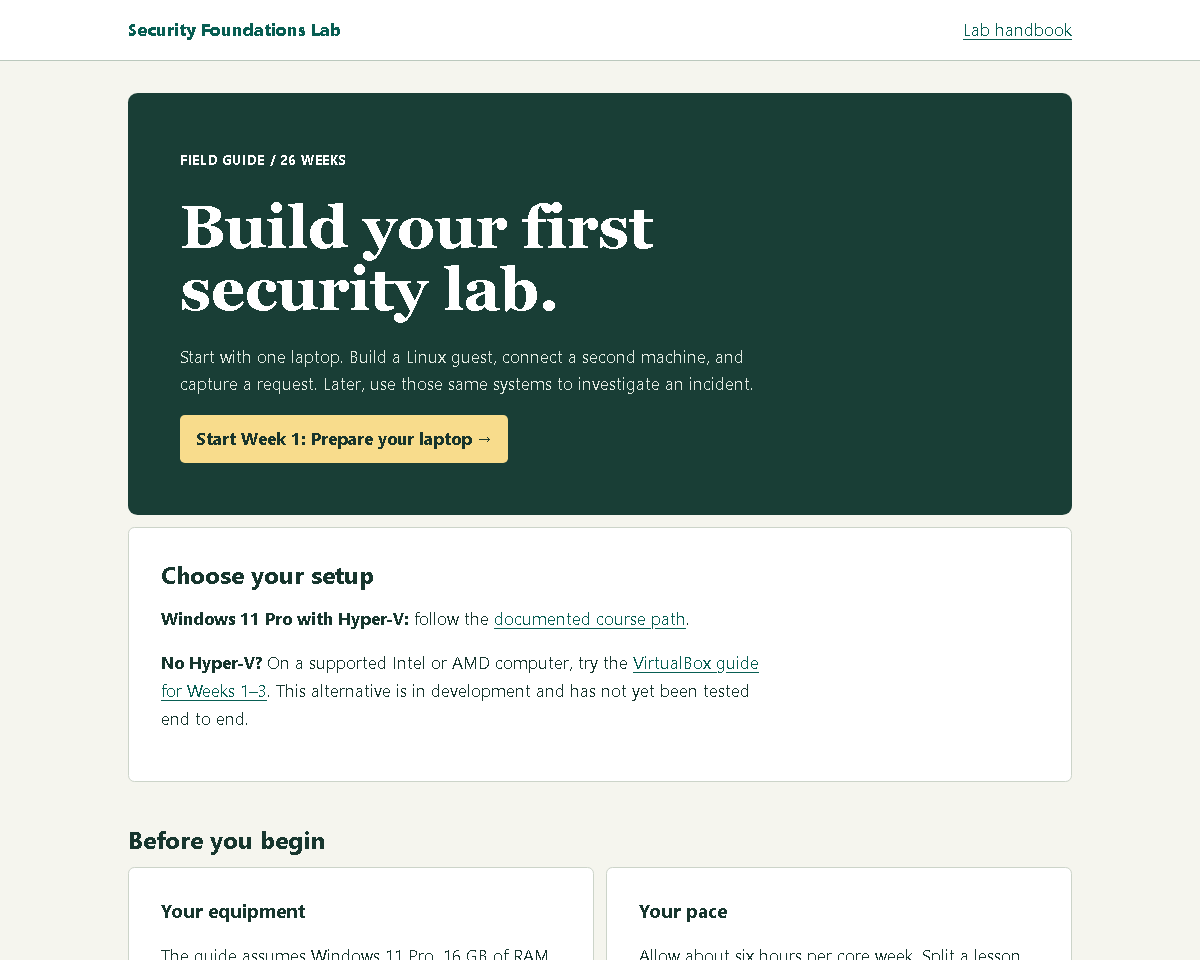
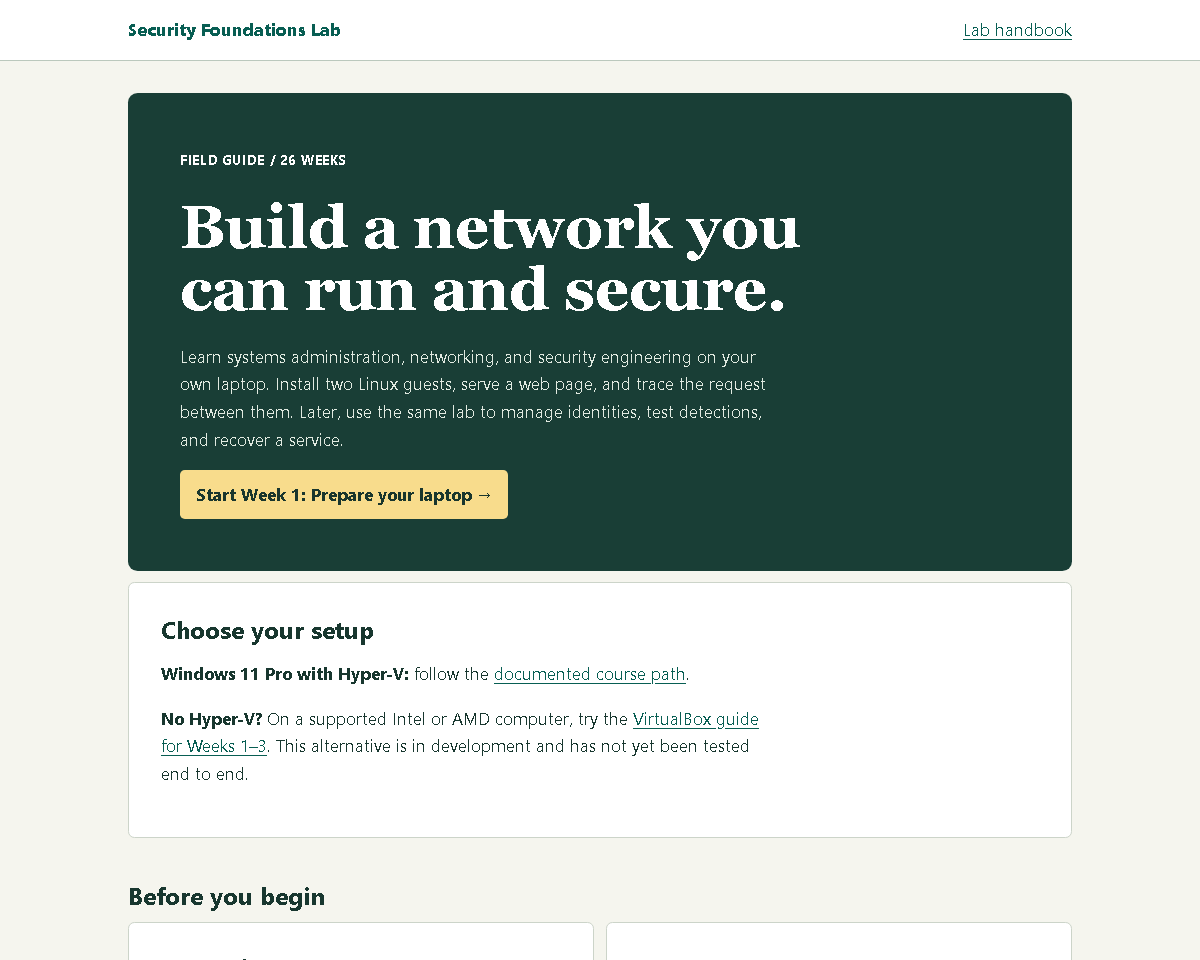
Introduce the course through its systems, networking and engineering outcomes

diff --git a/course/index.html b/course/index.html
@@ -1,6 +1,6 @@
 <!doctype html><html lang="en"><head><meta charset="utf-8"><meta name="viewport" content="width=device-width,initial-scale=1"><title>Course overview | Security Foundations Lab</title><style>
 *{box-sizing:border-box}html{scroll-padding-top:1rem}body{margin:0;background:#f5f5ee;color:#18372f;font:1.05rem/1.65 system-ui,sans-serif}a{color:#085e53;text-underline-offset:.2em}a:focus-visible,summary:focus-visible{outline:3px solid #bf571e;outline-offset:4px}.skip{position:absolute;left:1rem;top:-6rem;background:white;padding:.6rem}.skip:focus{top:.5rem}header{border-bottom:1px solid #bbc8bd;background:#fff}nav,main,footer{max-width:65rem;margin:auto;padding:1rem clamp(1rem,4vw,3rem)}nav{display:flex;align-items:center;justify-content:space-between;gap:1rem;flex-wrap:wrap}nav a:first-child{font-weight:800;text-decoration:none}main{padding-block:2rem}h1,h2,h3{line-height:1.18;text-wrap:balance}h1{font: bold clamp(2.25rem,5vw,4rem)/1.02 Georgia,serif;max-width:19ch;margin:.4em 0}h2{font-size:1.5rem;margin:1.8em 0 .55em}h3{font-size:1.2rem}p{max-width:68ch}.hero{background:#193e36;color:#fff;padding:clamp(1.25rem,5vw,3.25rem);border-radius:.6rem}.hero p{color:#e1eae1}.label,.terminal-label{font-size:.8rem;font-weight:750;letter-spacing:.05em}.btn{display:inline-block;background:#f8dc8c;color:#19362d;padding:.65rem 1rem;border-radius:.3rem;text-decoration:none;font-weight:750}.btn:hover{text-decoration:underline}.hint{background:#e6ede0;border-left:4px solid #577655;padding:.85rem 1.1rem}.panel,details{background:#fff;border:1px solid #ccd4c9;border-radius:.4rem;margin:.7rem 0}.panel{padding:clamp(1rem,3vw,2rem)}.panel h2,.panel h3{margin-top:0}summary{cursor:pointer;padding:.9rem 1.1rem;font-weight:700}details ul{margin:0;padding:0 2.8rem 1rem}li{margin:.4em 0}.grid{display:grid;grid-template-columns:repeat(auto-fit,minmax(min(100%,16rem),1fr));gap:.8rem}.grid .panel{margin:0}.terminal-label{background:#27473f;color:#fff;padding:.45rem .85rem}pre{margin:0;background:#112d26;color:#fff;padding:1rem;overflow-x:auto;line-height:1.55;font-size:.9rem}.command{margin:1em 0;min-width:0}.sectionlink{font-weight:650}footer{font-size:.9rem;border-top:1px solid #ccd4c9} @media print{nav,.skip,.btn,footer{display:none}.hero,.panel,.hint{background:white;color:black}.hero p{color:black}pre{white-space:pre-wrap;color:black;background:white}}
-.step{background:white;border:1px solid #ccd4c9;border-radius:.4rem;margin:1rem 0;padding:clamp(1rem,3vw,2rem)}.step h3{margin-top:0}.tablewrap{overflow:auto}table{border-collapse:collapse;width:100%}th,td{text-align:left;vertical-align:top;border-bottom:1px solid #bdcabc;padding:.55rem}.note{display:block;background:#e6ede0;padding:1rem;margin:1rem 0}.next,.meta{display:flex;gap:1rem;flex-wrap:wrap}.next{justify-content:space-between}.tag,.eyebrow{font-size:.85rem;font-weight:650}.cards{display:grid;grid-template-columns:repeat(auto-fit,minmax(min(100%,18rem),1fr));gap:.7rem}.card{display:grid;padding:1rem;background:white;border:1px solid #ccd4c9}.card span{font-size:.9rem}svg,img{max-width:100%;height:auto}.actions{padding-left:1.8rem;max-width:70ch}.actions li{padding:.15rem 0 .15rem .25rem}.actions li::marker{font-weight:750;color:#24594a}.settings{max-width:68ch}.settings div{display:grid;grid-template-columns:minmax(9rem,1fr) 2fr;gap:.6rem;padding:.55rem;border-bottom:1px solid #ccd4c9}.settings dt{font-weight:650}.settings dd{margin:0}.result{border-left:3px solid #537761;padding:.5rem .85rem;background:#edf2e9}@media(max-width:520px){.settings div{grid-template-columns:1fr;gap:.1rem}}</style></head><body><a class="skip" href="#main">Skip to content</a><header><nav aria-label="Course"><a href="index.html">Security Foundations Lab</a><a href="lab-handbook.html">Lab handbook</a></nav></header><main id="main"><section class="hero"><span class="label">FIELD GUIDE / 26 WEEKS</span><h1>Build your first security lab.</h1><p>Start with one laptop. Build a Linux guest, connect a second machine, and capture a request. Later, use those same systems to investigate an incident.</p><a class="btn" href="week-01.html">Start Week 1: Prepare your laptop →</a></section>
+.step{background:white;border:1px solid #ccd4c9;border-radius:.4rem;margin:1rem 0;padding:clamp(1rem,3vw,2rem)}.step h3{margin-top:0}.tablewrap{overflow:auto}table{border-collapse:collapse;width:100%}th,td{text-align:left;vertical-align:top;border-bottom:1px solid #bdcabc;padding:.55rem}.note{display:block;background:#e6ede0;padding:1rem;margin:1rem 0}.next,.meta{display:flex;gap:1rem;flex-wrap:wrap}.next{justify-content:space-between}.tag,.eyebrow{font-size:.85rem;font-weight:650}.cards{display:grid;grid-template-columns:repeat(auto-fit,minmax(min(100%,18rem),1fr));gap:.7rem}.card{display:grid;padding:1rem;background:white;border:1px solid #ccd4c9}.card span{font-size:.9rem}svg,img{max-width:100%;height:auto}.actions{padding-left:1.8rem;max-width:70ch}.actions li{padding:.15rem 0 .15rem .25rem}.actions li::marker{font-weight:750;color:#24594a}.settings{max-width:68ch}.settings div{display:grid;grid-template-columns:minmax(9rem,1fr) 2fr;gap:.6rem;padding:.55rem;border-bottom:1px solid #ccd4c9}.settings dt{font-weight:650}.settings dd{margin:0}.result{border-left:3px solid #537761;padding:.5rem .85rem;background:#edf2e9}@media(max-width:520px){.settings div{grid-template-columns:1fr;gap:.1rem}}</style></head><body><a class="skip" href="#main">Skip to content</a><header><nav aria-label="Course"><a href="index.html">Security Foundations Lab</a><a href="lab-handbook.html">Lab handbook</a></nav></header><main id="main"><section class="hero"><span class="label">FIELD GUIDE / 26 WEEKS</span><h1>Build a network you can run and secure.</h1><p>Learn systems administration, networking, and security engineering on your own laptop. Install two Linux guests, serve a web page, and trace the request between them. Later, use the same lab to manage identities, test detections, and recover a service.</p><a class="btn" href="week-01.html">Start Week 1: Prepare your laptop →</a></section>
     <section class="panel"><h2>Choose your setup</h2><p><strong>Windows 11 Pro with Hyper-V:</strong> follow the <a href="week-01.html">documented course path</a>.</p><p><strong>No Hyper-V?</strong> On a supported Intel or AMD computer, try the <a href="virtualbox.html">VirtualBox guide for Weeks 1–3</a>. This alternative is in development and has not yet been tested end to end.</p></section><h2>Before you begin</h2><div class="grid"><section class="panel"><h3>Your equipment</h3><p>The guide assumes Windows 11 Pro, 16 GB of RAM, and administrator access. Week 1 checks your hardware before you install a VM.</p></section><section class="panel"><h3>Your pace</h3><p>Allow about six hours per core week. Split a lesson across sessions; use the checks at the end to decide when to move on.</p></section></div>
     <p class="hint"><strong>Using the download?</strong> Keep the extracted folder together. Reading works offline. You’ll need internet for installers, updates, and cloud exercises.</p>
     <p class="hint"><strong>Learning solo?</strong> Use the <a href="lab-handbook.html#solo">weekly self-review checklist</a>. A mentor is optional.</p><h2 id="lessons">Find a lesson</h2><p>Work through the weeks in order. Returning learners can open a section below to jump back in.</p><details><summary>Weeks 1–6 · Linux and network foundations</summary><ul><li><a href="week-01.html">Week 1: Prepare the laptop and your learning system</a></li><li><a href="week-02.html">Week 2: Build your first Linux VM</a></li><li><a href="week-03.html">Week 3: Build an isolated network and trace packets</a></li><li><a href="week-04.html">Week 4: Linux files, users, and least privilege</a></li><li><a href="week-05.html">Week 5: Services, logs, and recoverable configuration</a></li><li><a href="week-06.html">Week 6: SSH keys, firewalls, and a foundation exam</a></li></ul></details><details><summary>Weeks 7–10 · Windows, identity and web services</summary><ul><li><a href="week-07.html">Week 7: Windows administration and event evidence</a></li><li><a href="week-08.html">Week 8: Build a domain and understand DNS</a></li><li><a href="week-09.html">Week 9: Identity lifecycle and Group Policy</a></li><li><a href="week-10.html">Week 10: HTTP, TLS, and application boundaries</a></li></ul></details><details><summary>Weeks 11–16 · Monitoring and detection</summary><ul><li><a href="week-11.html">Week 11: Deploy your security monitoring stack</a></li><li><a href="week-12.html">Week 12: Collect Linux events and prove file monitoring</a></li><li><a href="week-13.html">Week 13: Capture Windows process telemetry</a></li><li><a href="week-14.html">Week 14: Write and test your first detection rules</a></li><li><a href="week-15.html">Week 15: Build a network sensor with Suricata</a></li><li><a href="week-16.html">Week 16: Integrate network alerts and investigate a case</a></li></ul></details><details><summary>Weeks 17–22 · Response, recovery and local capstone</summary><ul><li><a href="week-17.html">Week 17: Assess exposure and prioritize remediation</a></li><li><a href="week-18.html">Week 18: Contain, preserve, and recover an incident</a></li><li><a href="week-19.html">Week 19: Back up data and prove a restore</a></li><li><a href="week-20.html">Week 20: Containers and data exposure</a></li><li><a href="week-21.html">Week 21: Use small scripts to make investigations repeatable</a></li><li><a href="week-22.html">Week 22: Rebuild, document risk, and pass the local capstone</a></li></ul></details><details><summary>Weeks 23–25 · Cloud security</summary><ul><li><a href="week-23.html">Week 23: Cloud foundations, access, and cost controls</a></li><li><a href="week-24.html">Week 24: Deploy and secure a small cloud workload</a></li><li><a href="week-25.html">Week 25: Cloud data access and audit boundaries</a></li></ul></details><details><summary>Week 26 · Final demonstration</summary><ul><li><a href="week-26.html">Week 26: Demonstrate your security practice</a></li></ul></details><h2>When you need it</h2><ul><li><a href="templates.html">Evidence templates</a> — record what you tested and what happened.</li><li><a href="extensions.html">Optional platform labs</a> — compare Elastic, Splunk, and Security Onion after the foundations.</li><li><a href="mentor.html">Mentor guide</a> — review evidence and give feedback.</li></ul></main><footer>Security Foundations Lab · Public pilot v0.4 · Offline field guide · <a href="glossary.html">Glossary &amp; troubleshooting</a></footer></body></html>

diff --git a/authoring/work/learner_preview.py b/authoring/work/learner_preview.py
@@ -14,7 +14,7 @@ def page(title, body):
 
 def render_preview(out, chapters):
     chapters=sorted(chapters,key=lambda c:c['n'])
-    home="""<section class="hero"><span class="label">FIELD GUIDE / 26 WEEKS</span><h1>Build your first security lab.</h1><p>Start with one Windows laptop. Build a Linux guest, connect a second machine, and capture a request. Later, use those same systems to investigate an incident.</p><a class="btn" href="week-01.html">Start Week 1: Prepare your laptop →</a></section>
+    home="""<section class="hero"><span class="label">FIELD GUIDE / 26 WEEKS</span><h1>Build a network you can run and secure.</h1><p>Learn systems administration, networking, and security engineering on your own laptop. Install two Linux guests, serve a web page, and trace the request between them. Later, use the same lab to manage identities, test detections, and recover a service.</p><a class="btn" href="week-01.html">Start Week 1: Prepare your laptop →</a></section>
     <h2>Before you begin</h2><div class="grid"><section class="panel"><h3>Your equipment</h3><p>The guide assumes Windows 11 Pro, 16 GB of RAM, and administrator access. Week 1 checks your hardware before you install a VM.</p></section><section class="panel"><h3>Your pace</h3><p>Allow about six hours per core week. Split a lesson across sessions; use the checks at the end to decide when to move on.</p></section></div>
     <p class="hint"><strong>Using the download?</strong> Keep the extracted folder together. Reading works offline. You’ll need internet for installers, updates, and cloud exercises.</p>
     <h2 id="lessons">Find a lesson</h2><p>Work through the weeks in order. Returning learners can open a section below to jump back in.</p>"""

diff --git a/authoring/work/package_course.py b/authoring/work/package_course.py
@@ -5,6 +5,10 @@ from render_course import render,OUT,ROOT
 render()
 readme=f"""SECURITY FOUNDATIONS LAB | Public pilot v0.4
 
+Hands-on systems administration, networking, and security engineering.
+Build Linux and Windows guests, trace network traffic, test access controls,
+investigate alerts, and prove you can restore data.
+
 Extract the complete ZIP. Open index.html in your browser and choose your setup.
 Read the lab handbook and begin Week 1. Keep notes outside this folder.
 

diff --git a/README.md b/README.md
@@ -1,6 +1,8 @@
 # Security Foundations Lab
 
-A free, downloadable cybersecurity lab course for aspiring IT and security professionals. Build the systems first, then learn to protect them: install Ubuntu, connect two guests on a private network, capture a request, and follow the evidence into a detection tool.
+**Systems administration, networking, and security engineering in one hands-on lab.**
+
+This free, downloadable course is for people starting in IT operations, network support, or cybersecurity. Start with two virtual machines and a question: when one machine requests a web page from the other, what has to work? Configure the service, trace the packets, and use the logs to explain the result.
 
 ## Start here
 
@@ -17,6 +19,13 @@ A free, downloadable cybersecurity lab course for aspiring IT and security profe
 No web server, account, or subscription is needed to read the course. The lessons and synthetic investigation case work offline. OS installers, package updates, and the later cloud exercises require internet access. Cloud resources are separate and may incur charges; use an authorized sandbox.
 
 ## What you'll build
+
+| Skill | What you’ll do | How you’ll know it worked |
+|---|---|---|
+| Systems administration | Install Linux and Windows guests, run services, and manage accounts and permissions. | Show that an authorized user can read a file and an unauthorized user cannot. |
+| Networking | Address a private subnet, configure DNS, and capture HTTP traffic. | Trace a request between two guests and demonstrate that the lab has no route to the internet. |
+| Security engineering | Collect endpoint and network events, write a detection rule, and test it. | Produce an alert from a known event and check a case that should not trigger it. |
+| Operations and recovery | Diagnose an outage, restore a backup, and document the repair. | Repeat the client’s original request or compare the restored file’s hash with the original. |
 
 The 26-week core starts with Windows 11 Pro, Hyper-V, Ubuntu, and a private network. It continues through Windows identity, TLS, Wazuh, endpoint logs, Suricata, incident response, recovery, and an Azure lab. Six optional modules compare Elastic, Splunk, and Security Onion using synthetic evidence. Work only with your own course VMs and authorized cloud resources.
 
